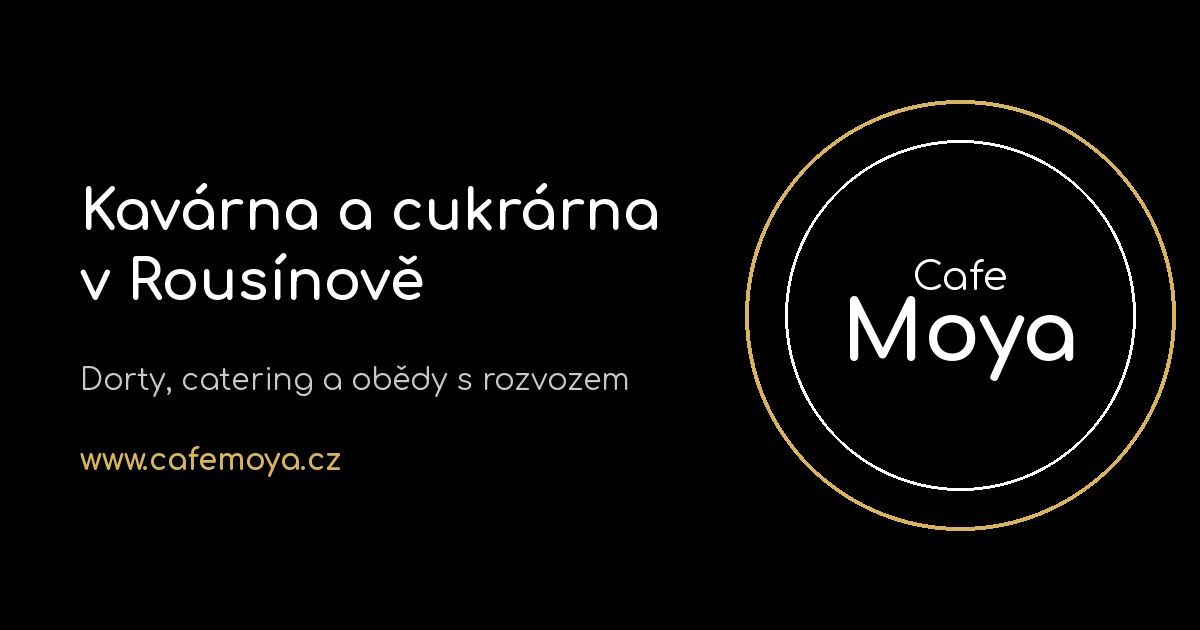
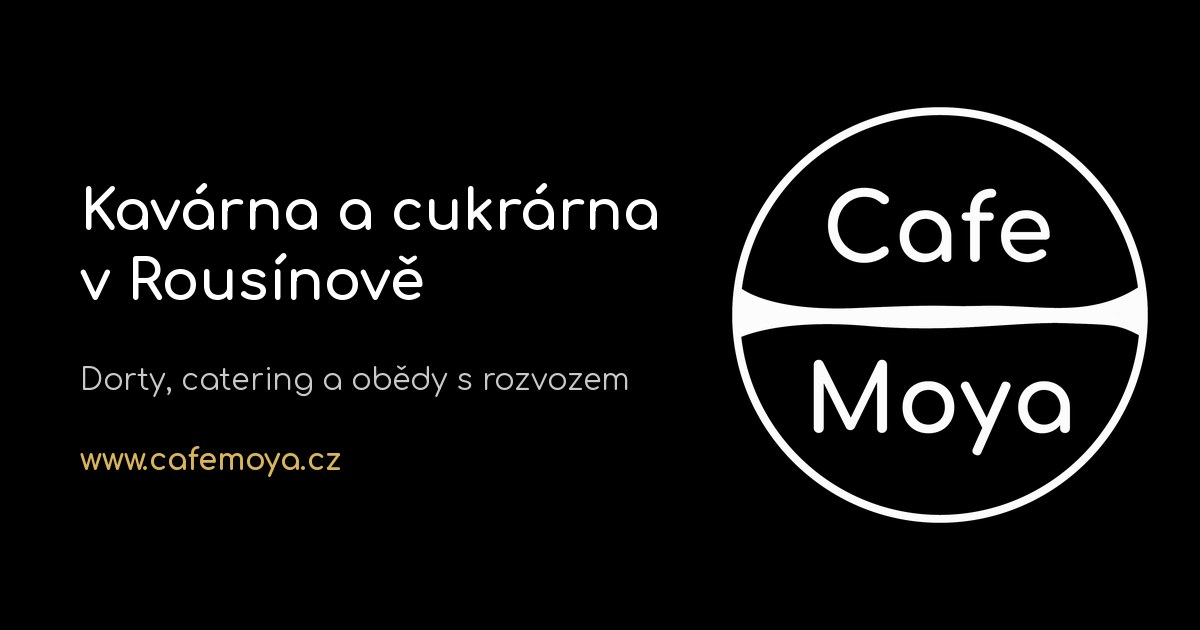
Add files via upload

diff --git a/src/styles.css b/src/styles.css
@@ -111,6 +111,7 @@ p, ul, ol, dl, figure { margin: 0; }
 .site-header { background: var(--night); color: var(--night-ink); }
 .header-in { display: flex; flex-wrap: wrap; align-items: center; justify-content: space-between; gap: 16px 32px; padding-block: 20px; }
 .logo { display: inline-flex; color: inherit; text-decoration: none; }
+.logo img { width: 72px; height: 72px; }
 .logo-ring { display: flex; flex-direction: column; align-items: center; justify-content: center; width: 72px; height: 72px; border: 2px solid currentColor; border-radius: 50%; font-family: var(--font-head); line-height: 1; }
 .logo-ring span:first-child { font-size: 13px; }
 .logo-ring span:last-child { font-size: 19px; font-weight: 700; }
@@ -122,7 +123,7 @@ p, ul, ol, dl, figure { margin: 0; }
 .nav-toggle { display: none; }
 
 @media (max-width: 1080px) {
-  .logo-ring { width: 60px; height: 60px; }
+  .logo-ring, .logo img { width: 60px; height: 60px; }
   .logo-ring span:first-child { font-size: 11px; }
   .logo-ring span:last-child { font-size: 16px; }
   .nav-toggle { display: inline-flex; align-items: center; gap: 10px; min-height: 48px; padding: 0 20px; border: 2px solid var(--night-ink); border-radius: 999px; background: transparent; color: var(--night-ink); font: inherit; font-weight: 800; cursor: pointer; }
@@ -146,6 +147,7 @@ p, ul, ol, dl, figure { margin: 0; }
 .ring { position: relative; width: 100%; max-width: 520px; aspect-ratio: 1; }
 .ring::before { content: ""; position: absolute; inset: 0; border: 2px solid var(--gold); border-radius: 50%; }
 .ring .ph { position: absolute; inset: 5%; min-height: 0; border-radius: 50%; background: var(--night-ph); color: var(--night-2); }
+.ring img { position: absolute; inset: 5%; width: 90%; height: 90%; border-radius: 50%; object-fit: cover; }
 
 /* Hero podstránek */
 .page-hero { position: relative; overflow: hidden; background: var(--night); color: var(--night-ink); padding-block: clamp(28px, 4vw, 48px) clamp(56px, 7vw, 88px); }
@@ -168,12 +170,15 @@ p, ul, ol, dl, figure { margin: 0; }
 .split { display: flex; flex-wrap: wrap; align-items: center; gap: 40px 72px; }
 .split > * { flex: 1 1 420px; min-width: 0; }
 .split--rev { flex-wrap: wrap-reverse; }
+.split > .photo { flex: 1 1 380px; max-width: 480px; height: auto; margin-inline: auto; }
 
 /* Polední menu */
 .lunch { display: flex; flex-wrap: wrap; gap: 48px 80px; }
 .lunch-text { flex: 1 1 340px; min-width: 0; }
 .lunch-text > * + * { margin-top: 24px; }
 .lunch-menu { flex: 2 1 560px; min-width: 0; }
+.weekend-photo { width: 100%; height: auto; aspect-ratio: 4 / 3; object-fit: cover; object-position: 50% 70%; }
+.weekend-photo[hidden] { display: none; }
 .menu-day-head { display: flex; flex-wrap: wrap; justify-content: space-between; align-items: center; gap: 4px 24px; padding-bottom: 14px; border-bottom: 2px solid var(--price); }
 .menu-day-head h3 { font-size: clamp(22px, 2.2vw, 26px); color: var(--price); }
 .menu-day-head p { font-size: 15px; color: var(--ink-2); }
@@ -244,8 +249,10 @@ p, ul, ol, dl, figure { margin: 0; }
 .note-box { margin-top: 32px; padding: 20px 24px; background: var(--ph); font-weight: 600; }
 
 /* Galerie */
-.gallery { display: flex; flex-wrap: wrap; gap: 16px; margin-top: 28px; }
-.gallery > .ph { flex: 1 1 260px; min-height: 260px; }
+.gallery { display: grid; grid-template-columns: repeat(auto-fit, minmax(260px, 1fr)); gap: 24px 16px; margin-top: 28px; }
+.gallery > .ph { min-height: 260px; }
+.shot img { width: 100%; height: auto; aspect-ratio: 4 / 3; object-fit: cover; }
+.shot figcaption { margin-top: 10px; font-family: var(--font-head); font-size: 18px; font-weight: 700; }
 
 /* Formuláře */
 .form-wrap { display: flex; flex-wrap: wrap; align-items: flex-start; gap: 40px 72px; }
@@ -269,9 +276,11 @@ p, ul, ol, dl, figure { margin: 0; }
 .hours { max-width: 440px; }
 .hours div { display: flex; justify-content: space-between; gap: 24px; padding: 7px 0; border-bottom: 1px solid var(--line); }
 .hours dd { margin: 0; font-weight: 800; text-align: right; }
-.map { display: flex; flex-direction: column; align-items: center; justify-content: center; gap: 12px; min-height: 420px; padding: 32px; background: var(--ph); color: var(--ph-ink); text-align: center; }
-.map svg { width: 40px; height: 40px; }
-.map-links { display: flex; flex-wrap: wrap; justify-content: center; gap: 4px 24px; }
+.map { display: flex; flex-direction: column; gap: 12px; }
+.map iframe { display: block; flex: 1 1 auto; width: 100%; min-height: 420px; border: 0; background: var(--ph); filter: saturate(.45) contrast(1.05); }
+.map-preview { display: flex; flex: 1 1 auto; flex-direction: column; align-items: center; justify-content: center; gap: 12px; min-height: 420px; padding: 32px; background: var(--ph); color: var(--ph-ink); text-align: center; }
+.map-preview svg { width: 40px; height: 40px; }
+.map-links { display: flex; flex-wrap: wrap; gap: 4px 24px; }
 .map-links a { display: inline-flex; align-items: center; min-height: 44px; font-weight: 800; }
 
 /* Patička */
@@ -279,6 +288,7 @@ p, ul, ol, dl, figure { margin: 0; }
 .footer-grid { display: flex; flex-wrap: wrap; gap: 40px 56px; margin-bottom: 48px; }
 .footer-grid > * { flex: 1 1 200px; min-width: 0; }
 .footer-grid > .footer-brand { flex: 2 1 280px; }
+.footer-logo { width: 84px; height: 84px; }
 .footer-brand p { margin-top: 20px; max-width: 24em; }
 .site-footer h2 { margin-bottom: 14px; font-size: 17px; color: var(--gold); }
 .site-footer h2 + p + h2 { margin-top: 24px; }
